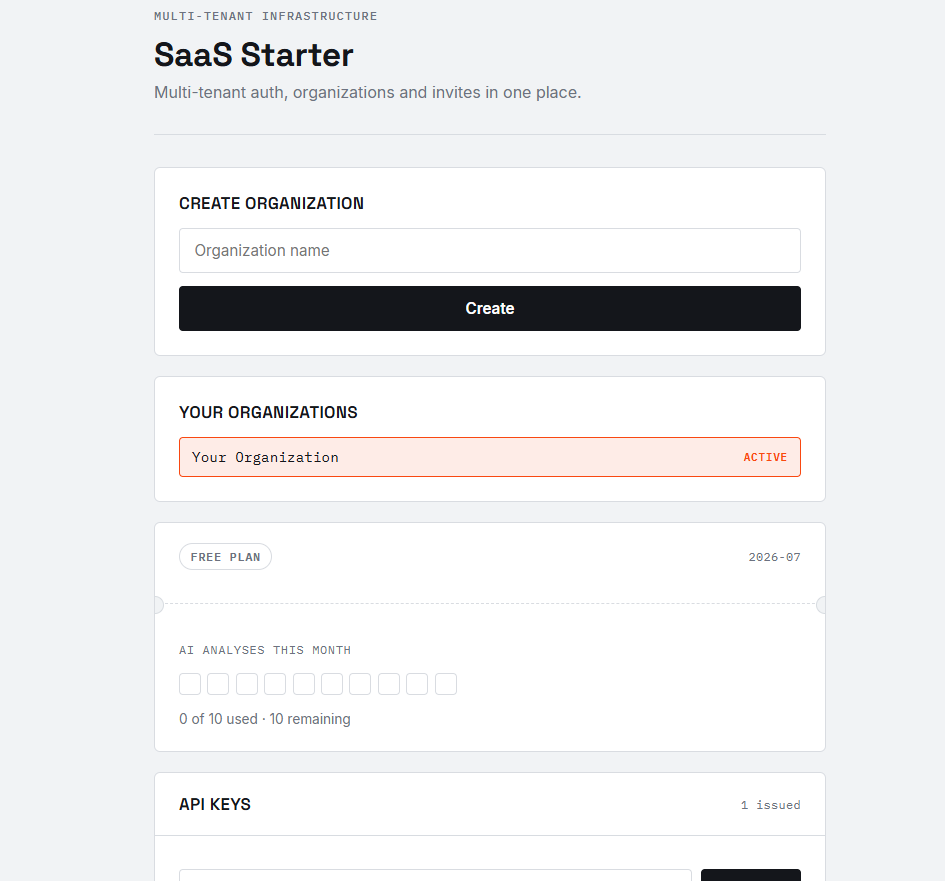
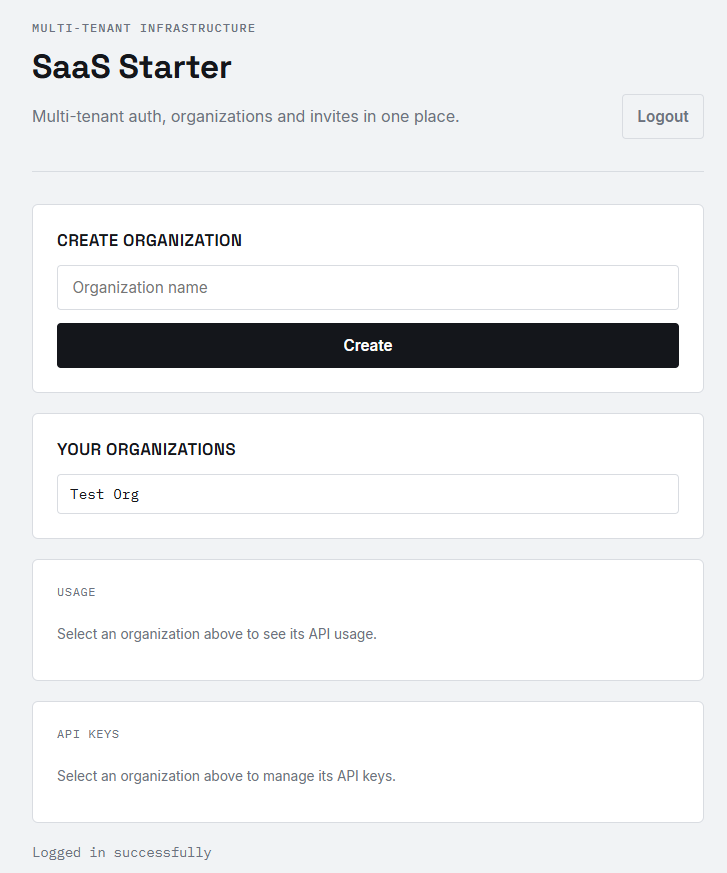
feat: add CI workflow, update dependencies and frontend

diff --git a/frontend/src/styles.css b/frontend/src/styles.css
@@ -50,11 +50,19 @@ h1 {
   letter-spacing: -0.01em;
 }
 
-.app-shell > p {
-  color: var(--ink-muted);
-  margin: 0 0 2rem 0;
+.app-header-row {
+  display: flex;
+  align-items: center;
+  justify-content: space-between;
+  gap: 1rem;
   padding-bottom: 2rem;
+  margin-bottom: 2rem;
   border-bottom: 1px solid var(--line);
+}
+
+.app-header-row p {
+  margin: 0;
+  color: var(--ink-muted);
 }
 
 .card {
@@ -502,4 +510,17 @@ ul {
   .stamp {
     transform: none;
   }
+}
+.app-header-row {
+  display: flex;
+  align-items: center;
+  justify-content: space-between;
+  gap: 1rem;
+  padding-bottom: 2rem;
+  margin-bottom: 2rem;
+  border-bottom: 1px solid var(--line);
+}
+
+.app-header-row p {
+  margin: 0;
 }

diff --git a/frontend/src/App.jsx b/frontend/src/App.jsx
@@ -80,11 +80,27 @@ function App() {
     }
   };
 
+  const handleLogout = () => {
+    localStorage.removeItem('token');
+    setToken('');
+    setOrgs([]);
+    setSelectedOrgId(null);
+    setMessage('Logged out');
+  };
+
   return (
     <div className="app-shell">
       <span className="app-eyebrow">Multi-tenant infrastructure</span>
       <h1>SaaS Starter</h1>
-      <p>Multi-tenant auth, organizations and invites in one place.</p>
+
+      <div className="app-header-row">
+        <p>Multi-tenant auth, organizations and invites in one place.</p>
+        {token ? (
+          <button type="button" className="secondary" onClick={handleLogout}>
+            Logout
+          </button>
+        ) : null}
+      </div>
 
       {!token ? (
         <form onSubmit={handleAuth} className="card">